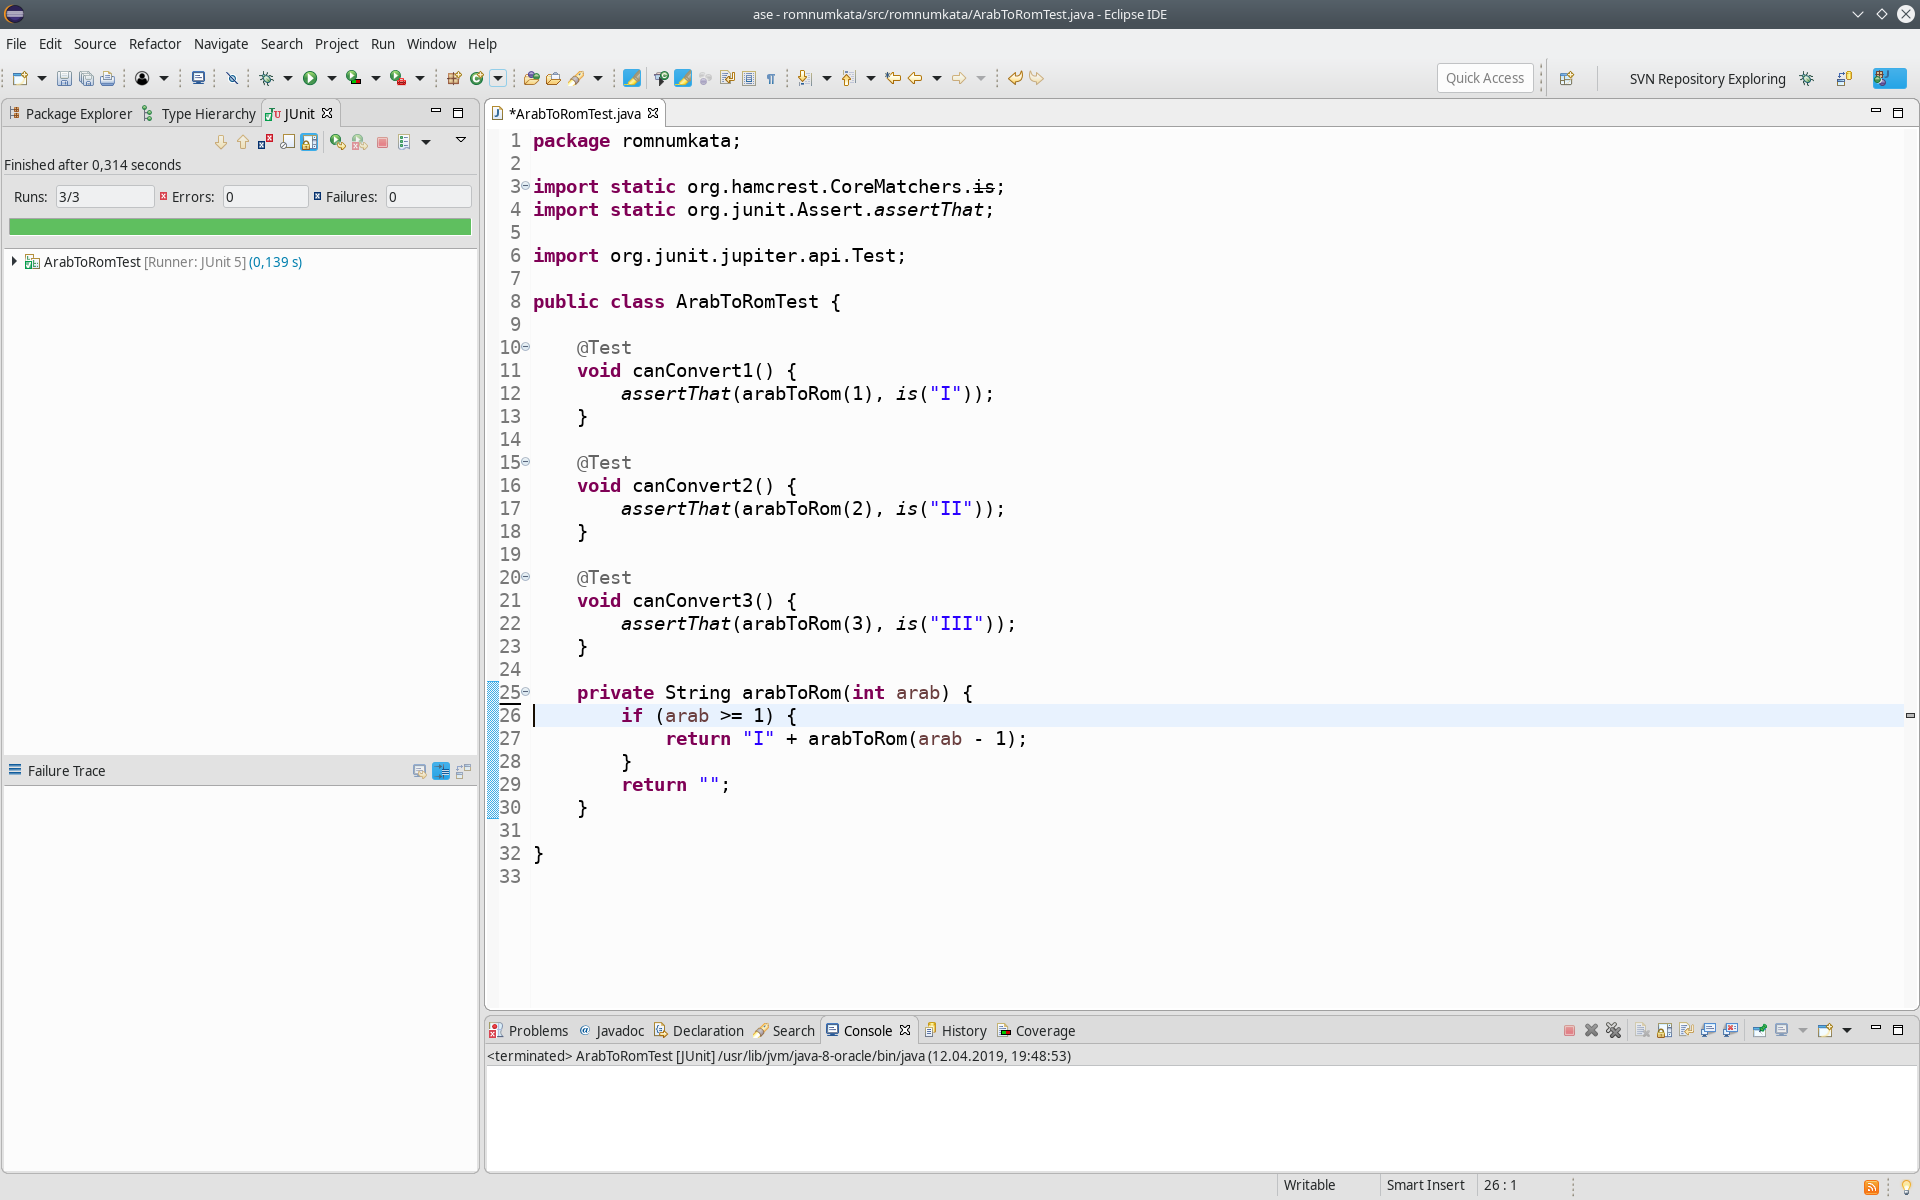
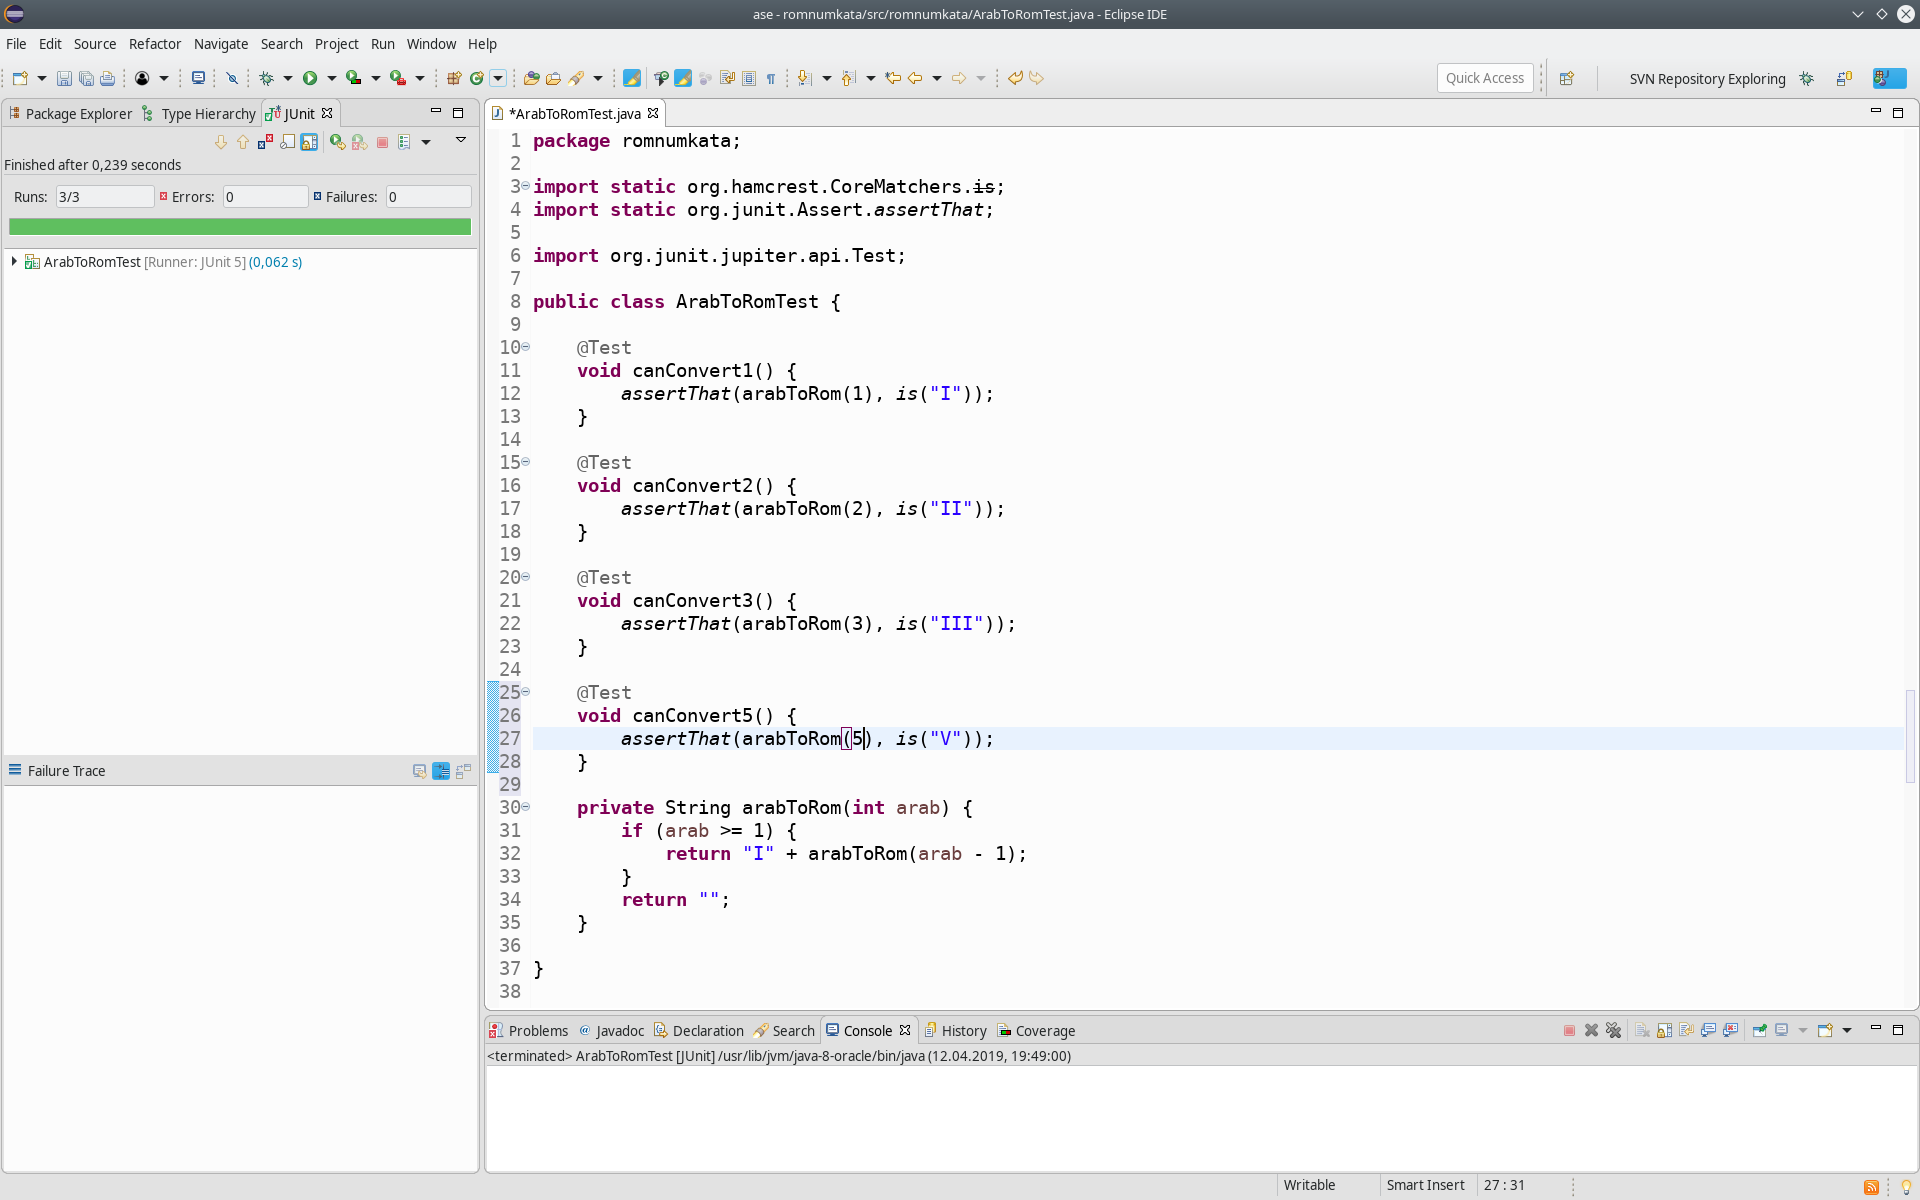
autocommit on change

diff --git a/src/romnumkata/ArabToRomTest.java b/src/romnumkata/ArabToRomTest.java
@@ -22,6 +22,11 @@ public class ArabToRomTest {
 		assertThat(arabToRom(3), is("III"));
 	}
 
+	@Test
+	void canConvert5() {
+		assertThat(arabToRom(5), is("V"));
+	}
+
 	private String arabToRom(int arab) {
 		if (arab >= 1) {
 			return "I" + arabToRom(arab - 1);
